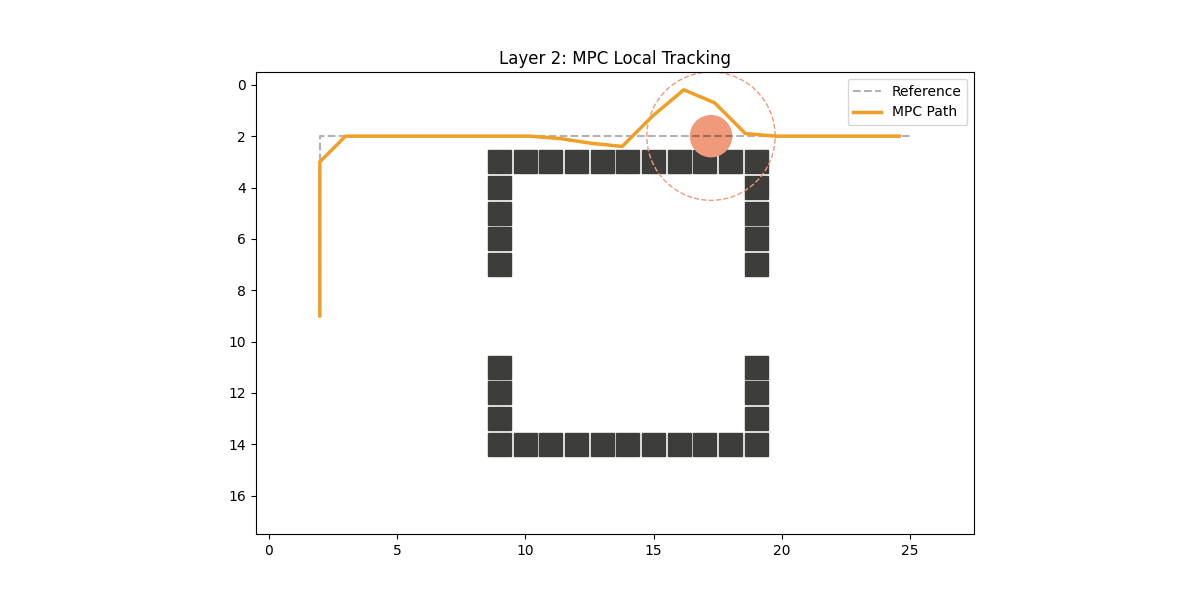
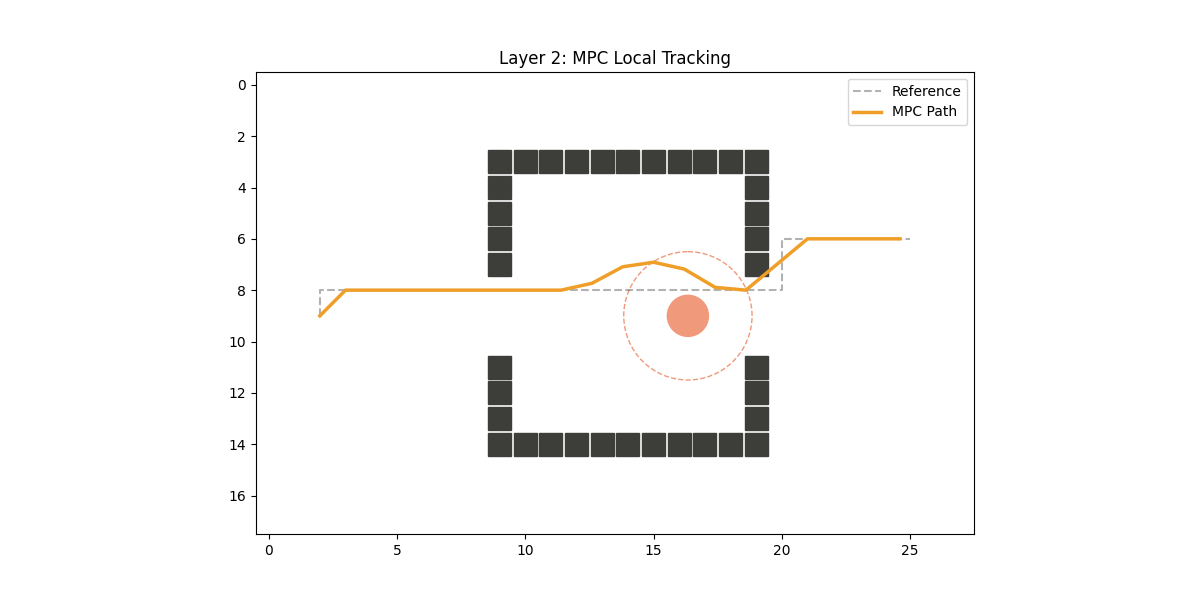
update target location to test robustness

diff --git a/main.py b/main.py
@@ -6,14 +6,14 @@ import numpy as np
 def main():
     # 1. Setup
     gmap = GridMap.default_setup()
-    start, goal = (9, 2), (2, 25)
+    start, goal = (9, 2), (6, 25)
 
     # 2. Global Plan (Discrete)
     astar_path, explored = run_astar(gmap, start, goal)
 
     # 3. Local Execution (Continuous)
     controller = MPCController()
-    obs = DynamicObstacle(r=2.0, c=14.0)
+    obs = DynamicObstacle(r=9.0, c=14.0)
     pos = np.array(start, dtype=float)
     trajectory = [pos.copy()]
 
